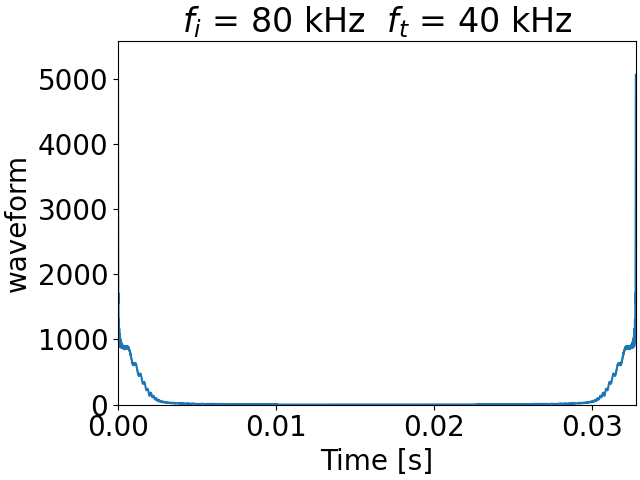
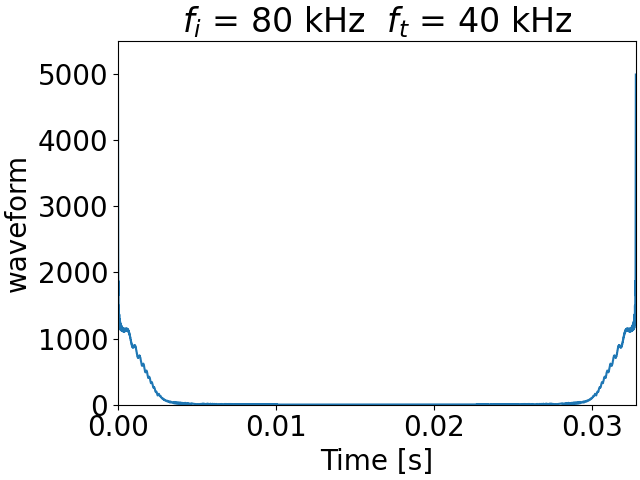
change parameter

diff --git a/Simulation/LPM/Robot_LPM＋CF.py b/Simulation/LPM/Robot_LPM＋CF.py
@@ -23,8 +23,8 @@ def Initialize():
     Amplitude = 32767. / 2.   #pulse Amplitude: 
     Fi = 80000    #: initial frequency [Hz]
     Ft = 40000  #: terminal frequency [Hz]
-    Duration =0.008 #LPM_duration [s]
-    Duration_CF =0.002 # CF_duration [s]
+    Duration =0.0075 #LPM_duration [s]
+    Duration_CF =0.0025 # CF_duration [s]
     Duration_space=0.0001
     
     draw_tx_spc_flg=True
